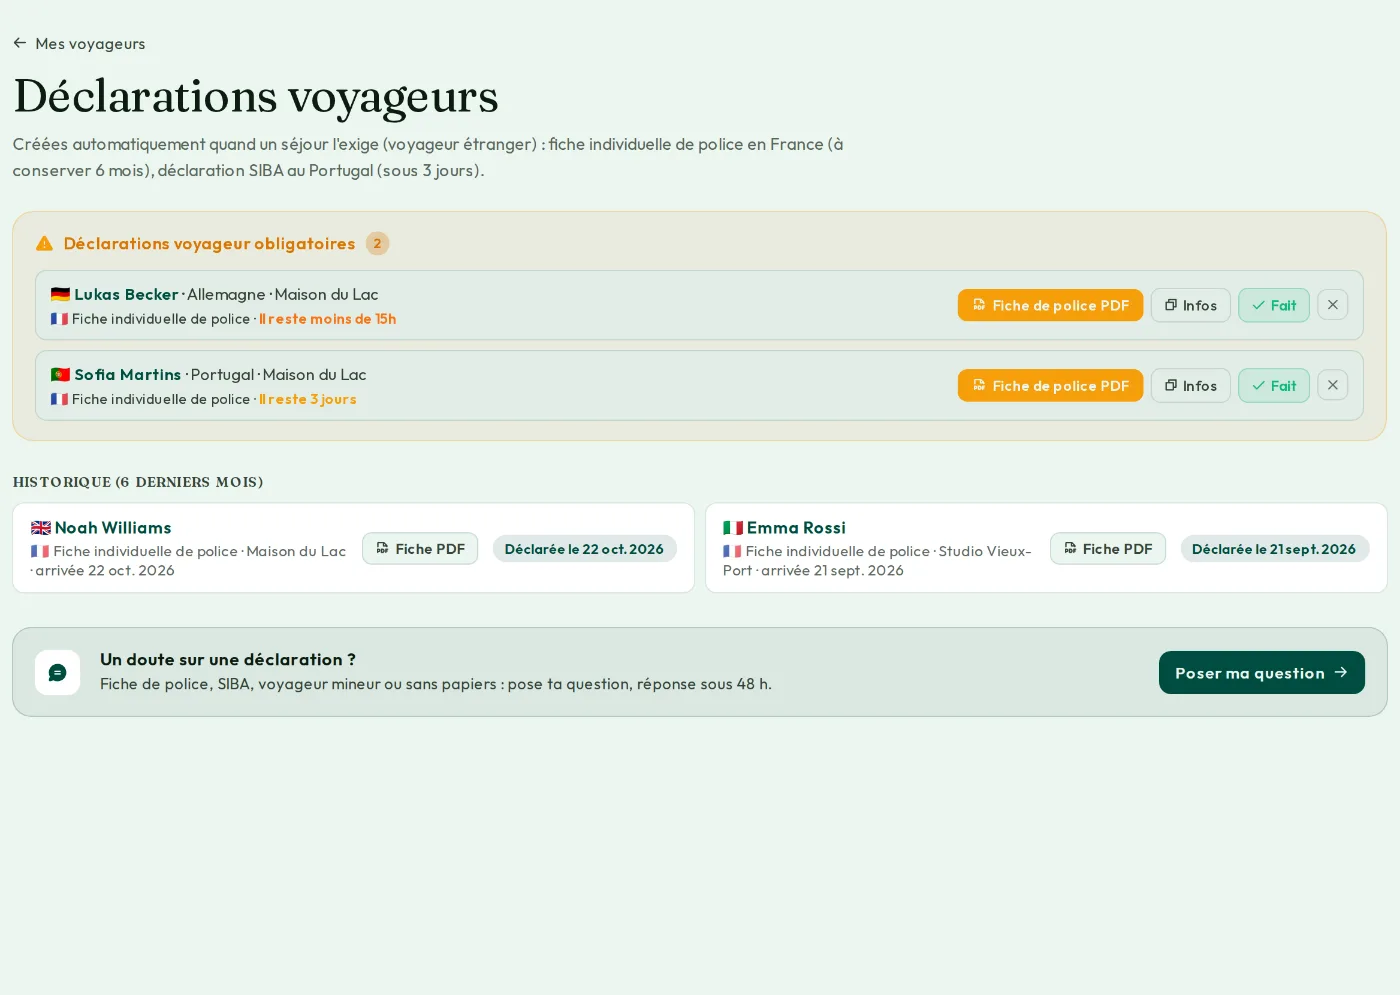
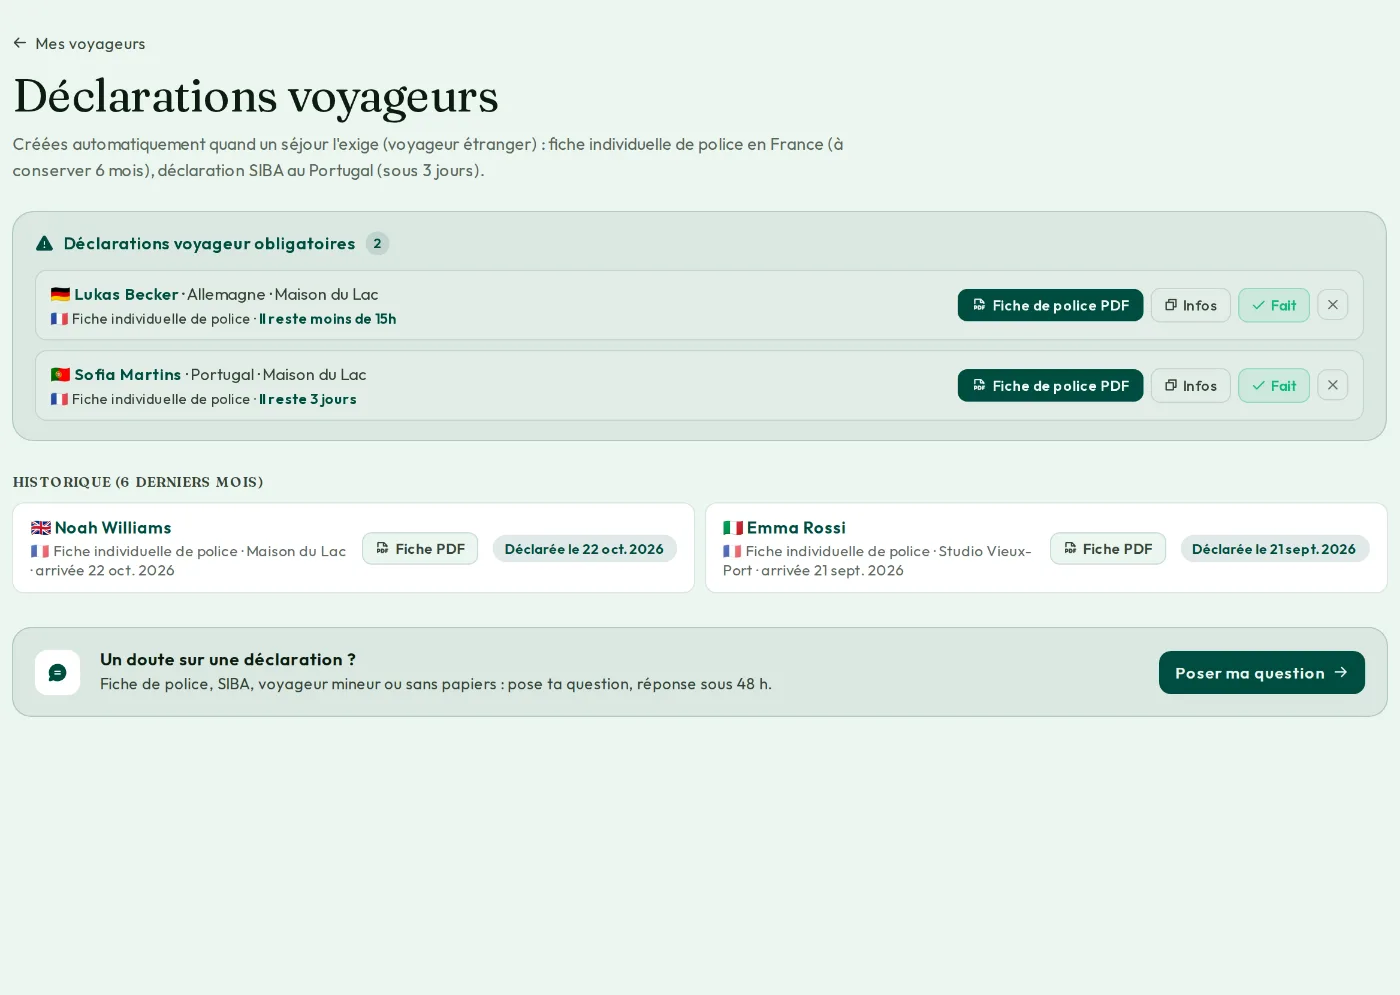
Déclarations voyageurs en vert (plus d'orange), capture refaite, photo de Jason sur téléphone
Claude-Session: https://claude.ai/code/session_01QV1sXoMQHouA2uJbJTNy1m

diff --git a/jason-app/components/dashboard/DeclarationsWidget.tsx b/jason-app/components/dashboard/DeclarationsWidget.tsx
@@ -29,9 +29,9 @@ function deadlineInfo(deadlineAt: string): { label: string; color: string } {
   const ms = new Date(deadlineAt).getTime() - Date.now()
   const hours = Math.floor(ms / 3_600_000)
   if (ms <= 0) return { label: 'Délai dépassé : déclare sans attendre', color: 'var(--danger)' }
-  if (hours < 24) return { label: `Il reste moins de ${hours + 1}h`, color: '#f97316' }
+  if (hours < 24) return { label: `Il reste moins de ${hours + 1}h`, color: 'var(--accent-text)' }
   const days = Math.floor(hours / 24)
-  return { label: `Il reste ${days} jour${days > 1 ? 's' : ''}`, color: '#f59e0b' }
+  return { label: `Il reste ${days} jour${days > 1 ? 's' : ''}`, color: 'var(--accent-text)' }
 }
 
 export default function DeclarationsWidget({ declarations }: { declarations: PendingDeclaration[] }) {
@@ -90,7 +90,7 @@ export default function DeclarationsWidget({ declarations }: { declarations: Pen
   return (
     <div style={s.wrap} className="fade-up">
       <div style={s.head}>
-        <Warning size={16} weight="fill" color="#f59e0b" />
+        <Warning size={16} weight="fill" color="var(--accent-text)" />
         <span style={s.headTitle}>
           Déclaration{visible.length > 1 ? 's' : ''} voyageur obligatoire{visible.length > 1 ? 's' : ''}
         </span>
@@ -185,8 +185,9 @@ export default function DeclarationsWidget({ declarations }: { declarations: Pen
 
 const s: Record<string, React.CSSProperties> = {
   wrap: {
-    background: 'var(--warning-bg)',
-    border: '1px solid rgba(245,158,11,0.28)',
+    // Vert de la marque (31/10/2026, Jason : « ce orange m'insupporte »)
+    background: 'var(--accent-bg)',
+    border: '1px solid var(--accent-border)',
     borderRadius: 'var(--r-xl, 18px)',
     padding: '16px 18px',
   },
@@ -194,11 +195,11 @@ const s: Record<string, React.CSSProperties> = {
     display: 'flex', alignItems: 'center', gap: '8px',
     marginBottom: '12px',
   },
-  headTitle: { fontSize: '14px', fontWeight: 700, color: 'var(--warning)' },
+  headTitle: { fontSize: '14px', fontWeight: 700, color: 'var(--accent-text)' },
   headBadge: {
     fontSize: '11px', fontWeight: 700,
     minWidth: '20px', height: '20px', borderRadius: '999px',
-    background: 'var(--warning-border)', color: 'var(--warning)',
+    background: 'var(--accent-bg-2)', color: 'var(--accent-text)',
     display: 'inline-flex', alignItems: 'center', justifyContent: 'center',
     padding: '0 6px',
   },
@@ -220,13 +221,13 @@ const s: Record<string, React.CSSProperties> = {
   portalBtn: {
     display: 'inline-flex', alignItems: 'center', gap: '4px',
     padding: '6px 11px', borderRadius: '8px',
-    background: '#f59e0b', color: 'var(--bg)',
+    background: 'var(--accent-text)', color: 'var(--bg)',
     fontSize: '12px', fontWeight: 600, textDecoration: 'none',
   },
   sibaBtn: {
     display: 'inline-flex', alignItems: 'center', gap: '5px',
     padding: '6px 12px', borderRadius: '8px', border: 'none',
-    background: '#f59e0b', color: 'var(--bg)',
+    background: 'var(--accent-text)', color: 'var(--bg)',
     fontSize: '12px', fontWeight: 700, cursor: 'pointer', fontFamily: 'inherit',
   },
   portalLinkSmall: {

diff --git a/index.html b/index.html
@@ -301,7 +301,8 @@ button,a,input,summary{-webkit-tap-highlight-color:transparent}
   .hero-g{gap:28px}
   .h1{font-size:40px}
   .hero-p{font-size:16.5px}
-  .by{display:none}
+  .by{font-size:13.5px;align-items:center}
+  .by img{width:38px;height:38px}
   .h2{font-size:32px}
   .c1,.bl-une,.pa,.me-t{padding:24px 20px}
   .c1 .c-h{font-size:27px}
